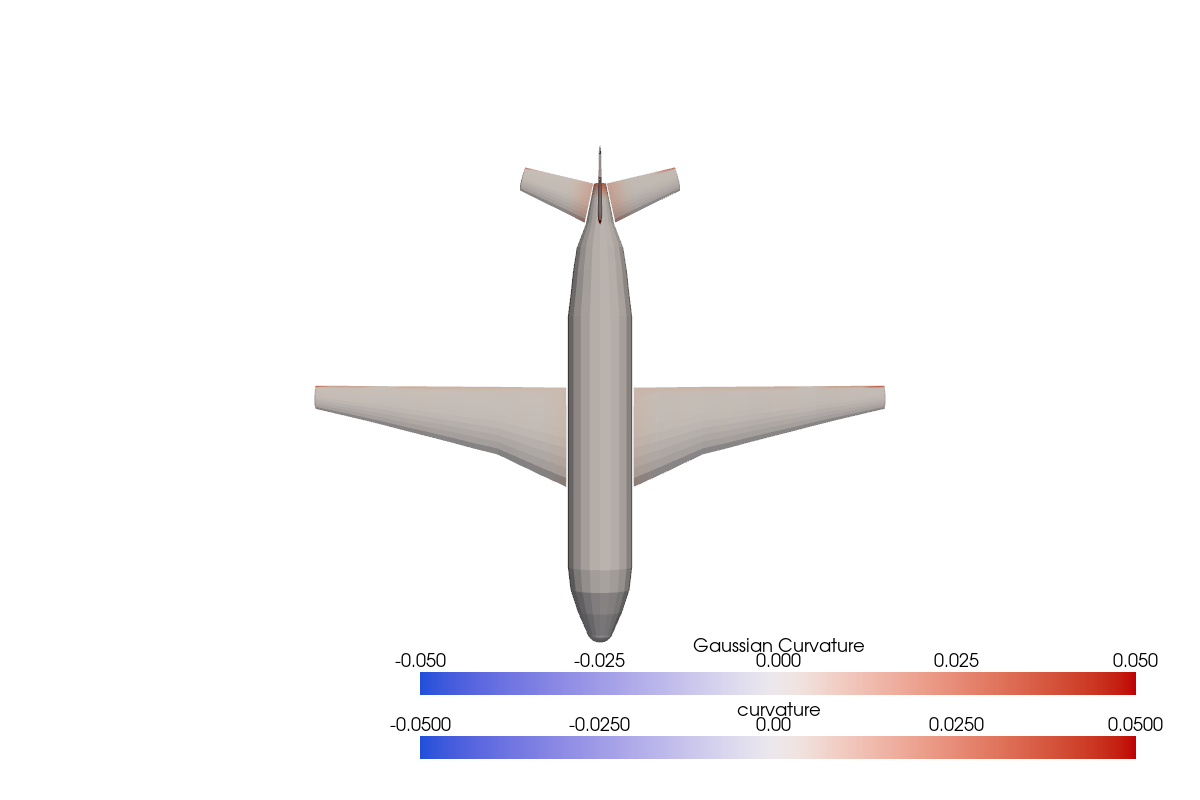
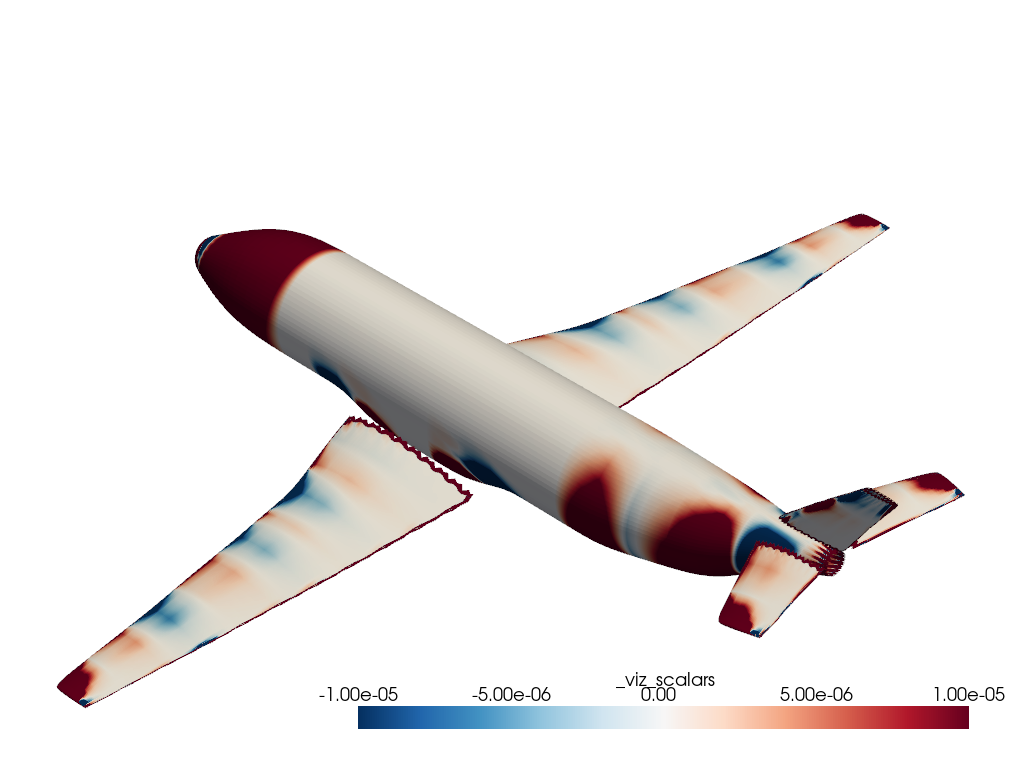
improve examples

Changed region(s): [[0.0625, 0.1875, 0.9688, 0.9688]]

diff --git a/examples/readme_examples/airplane.py b/examples/readme_examples/airplane.py
@@ -1,0 +1,33 @@
+"""Generate basic airplane mesh visualization for README."""
+
+from torchmesh.examples.pyvista_datasets.airplane import load
+from pathlib import Path
+
+### Load airplane mesh
+mesh = load()
+
+plotter = mesh.draw(show=False)
+plotter.camera.zoom(2.0)
+plotter.background_color = "white"
+plotter.screenshot(Path(__file__).parent / "airplane.png")
+plotter.show(jupyter_backend="static")
+
+mesh = mesh.subdivide(levels=2, filter="loop")
+mesh.point_data["curvature"] = mesh.gaussian_curvature_vertices
+mesh.cell_data["curvature"] = mesh.gaussian_curvature_cells
+
+plotter = mesh.draw(
+    point_scalars="curvature",
+    # cell_scalars="curvature",
+    alpha_points=0,
+    alpha_edges=0,
+    show_edges=False,
+    show=False,
+    cmap="RdBu_r",
+    vmin=-1e-5,
+    vmax=1e-5,
+)
+plotter.camera.zoom(2.0)
+plotter.background_color = "white"
+plotter.screenshot(Path(__file__).parent / "airplane_curvature.png")
+plotter.show(jupyter_backend="static")

diff --git a/README.md b/README.md
@@ -191,24 +191,27 @@ Then, with `mesh.draw()`, you can visualize the mesh:
 
 ### Computing Curvature
 
+Starting with the airplane mesh, we can compute its surface [Gaussian curvature](https://en.wikipedia.org/wiki/Gaussian_curvature):
+
 ```python
-# Gaussian curvature (intrinsic geometric property)
-K = mesh.gaussian_curvature_vertices
+mesh = mesh.subdivide(levels=2, filter="loop")
 
-print(f"Curvature range: [{K.min():.6f}, {K.max():.6f}]")
-# Curvature range: [-0.000795, 8.618090]
+mesh.point_data["curvature"] = mesh.gaussian_curvature_vertices
+mesh.cell_data["curvature"] = mesh.gaussian_curvature_cells
 
-# Visualize
-mesh.draw(point_scalars=K, cmap="coolwarm")
+plotter = mesh.draw(
+    point_scalars="curvature",
+    ...
+)
 ```
 
 <p align="center">
   <img src="examples/readme_examples/airplane_curvature.png" width="80%" alt="Gaussian Curvature">
 </p>
 
-*Warmer colors indicate positive curvature (convex regions), cooler colors indicate near-zero curvature (flat/saddle regions).*
+*Warmer colors indicate positive curvature (convex regions), cooler colors indicate negative curvature (concave regions).*
 
-### Computing Derivatives
+### Computing Field Derivatives
 
 ```python
 # Create scalar field: T = x + 2y
